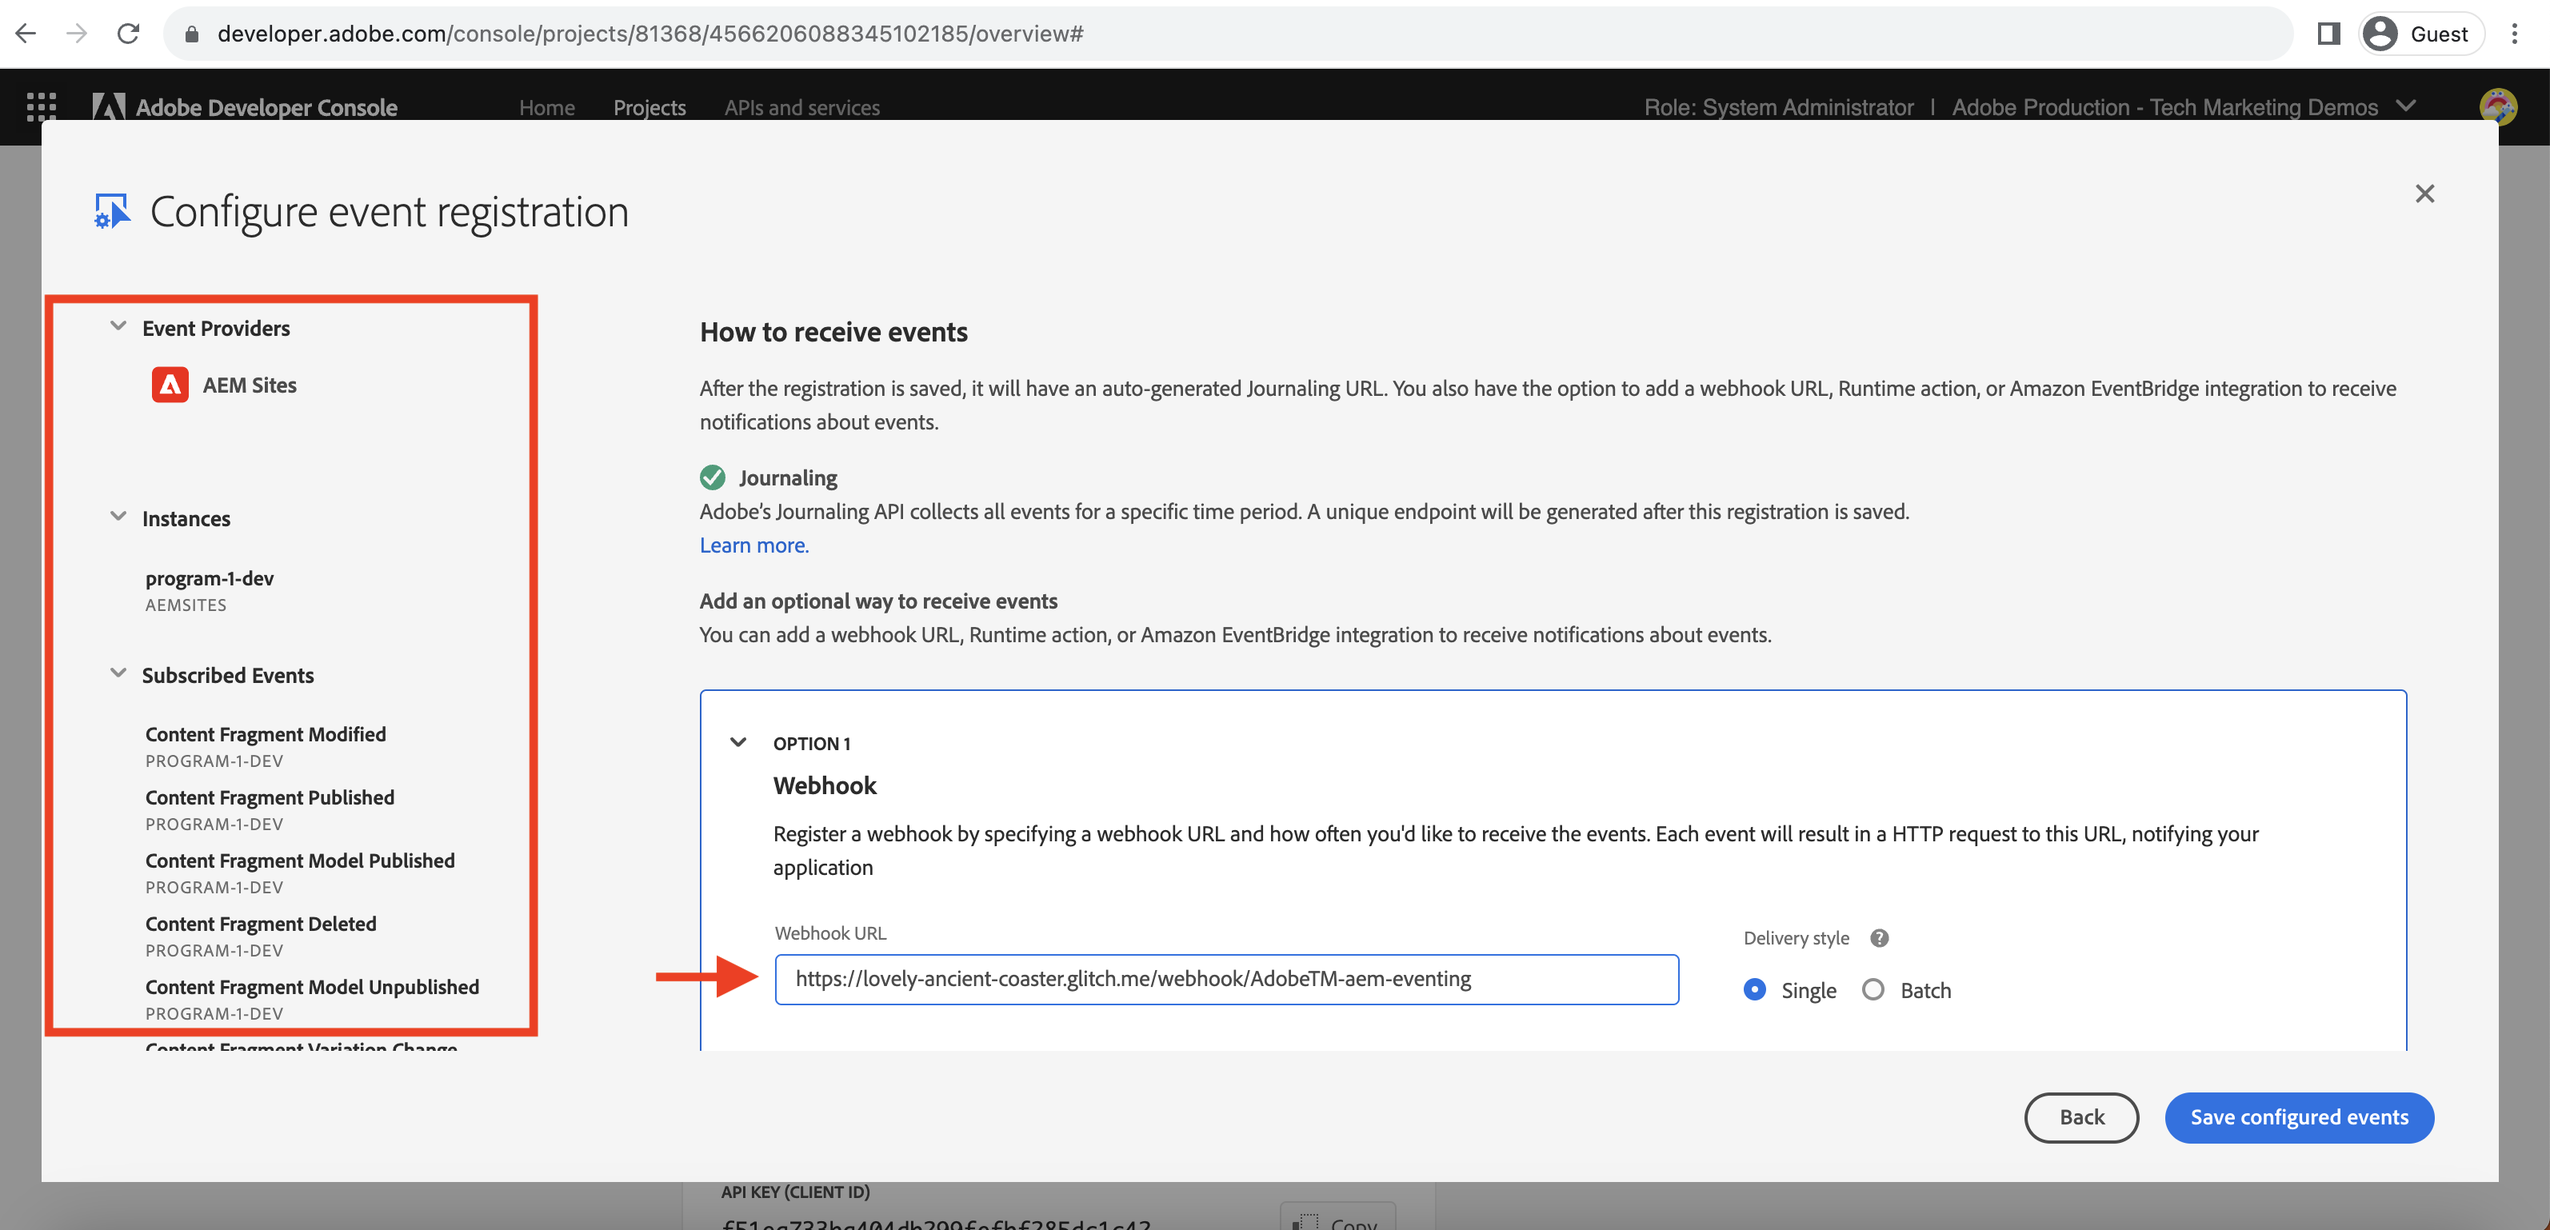
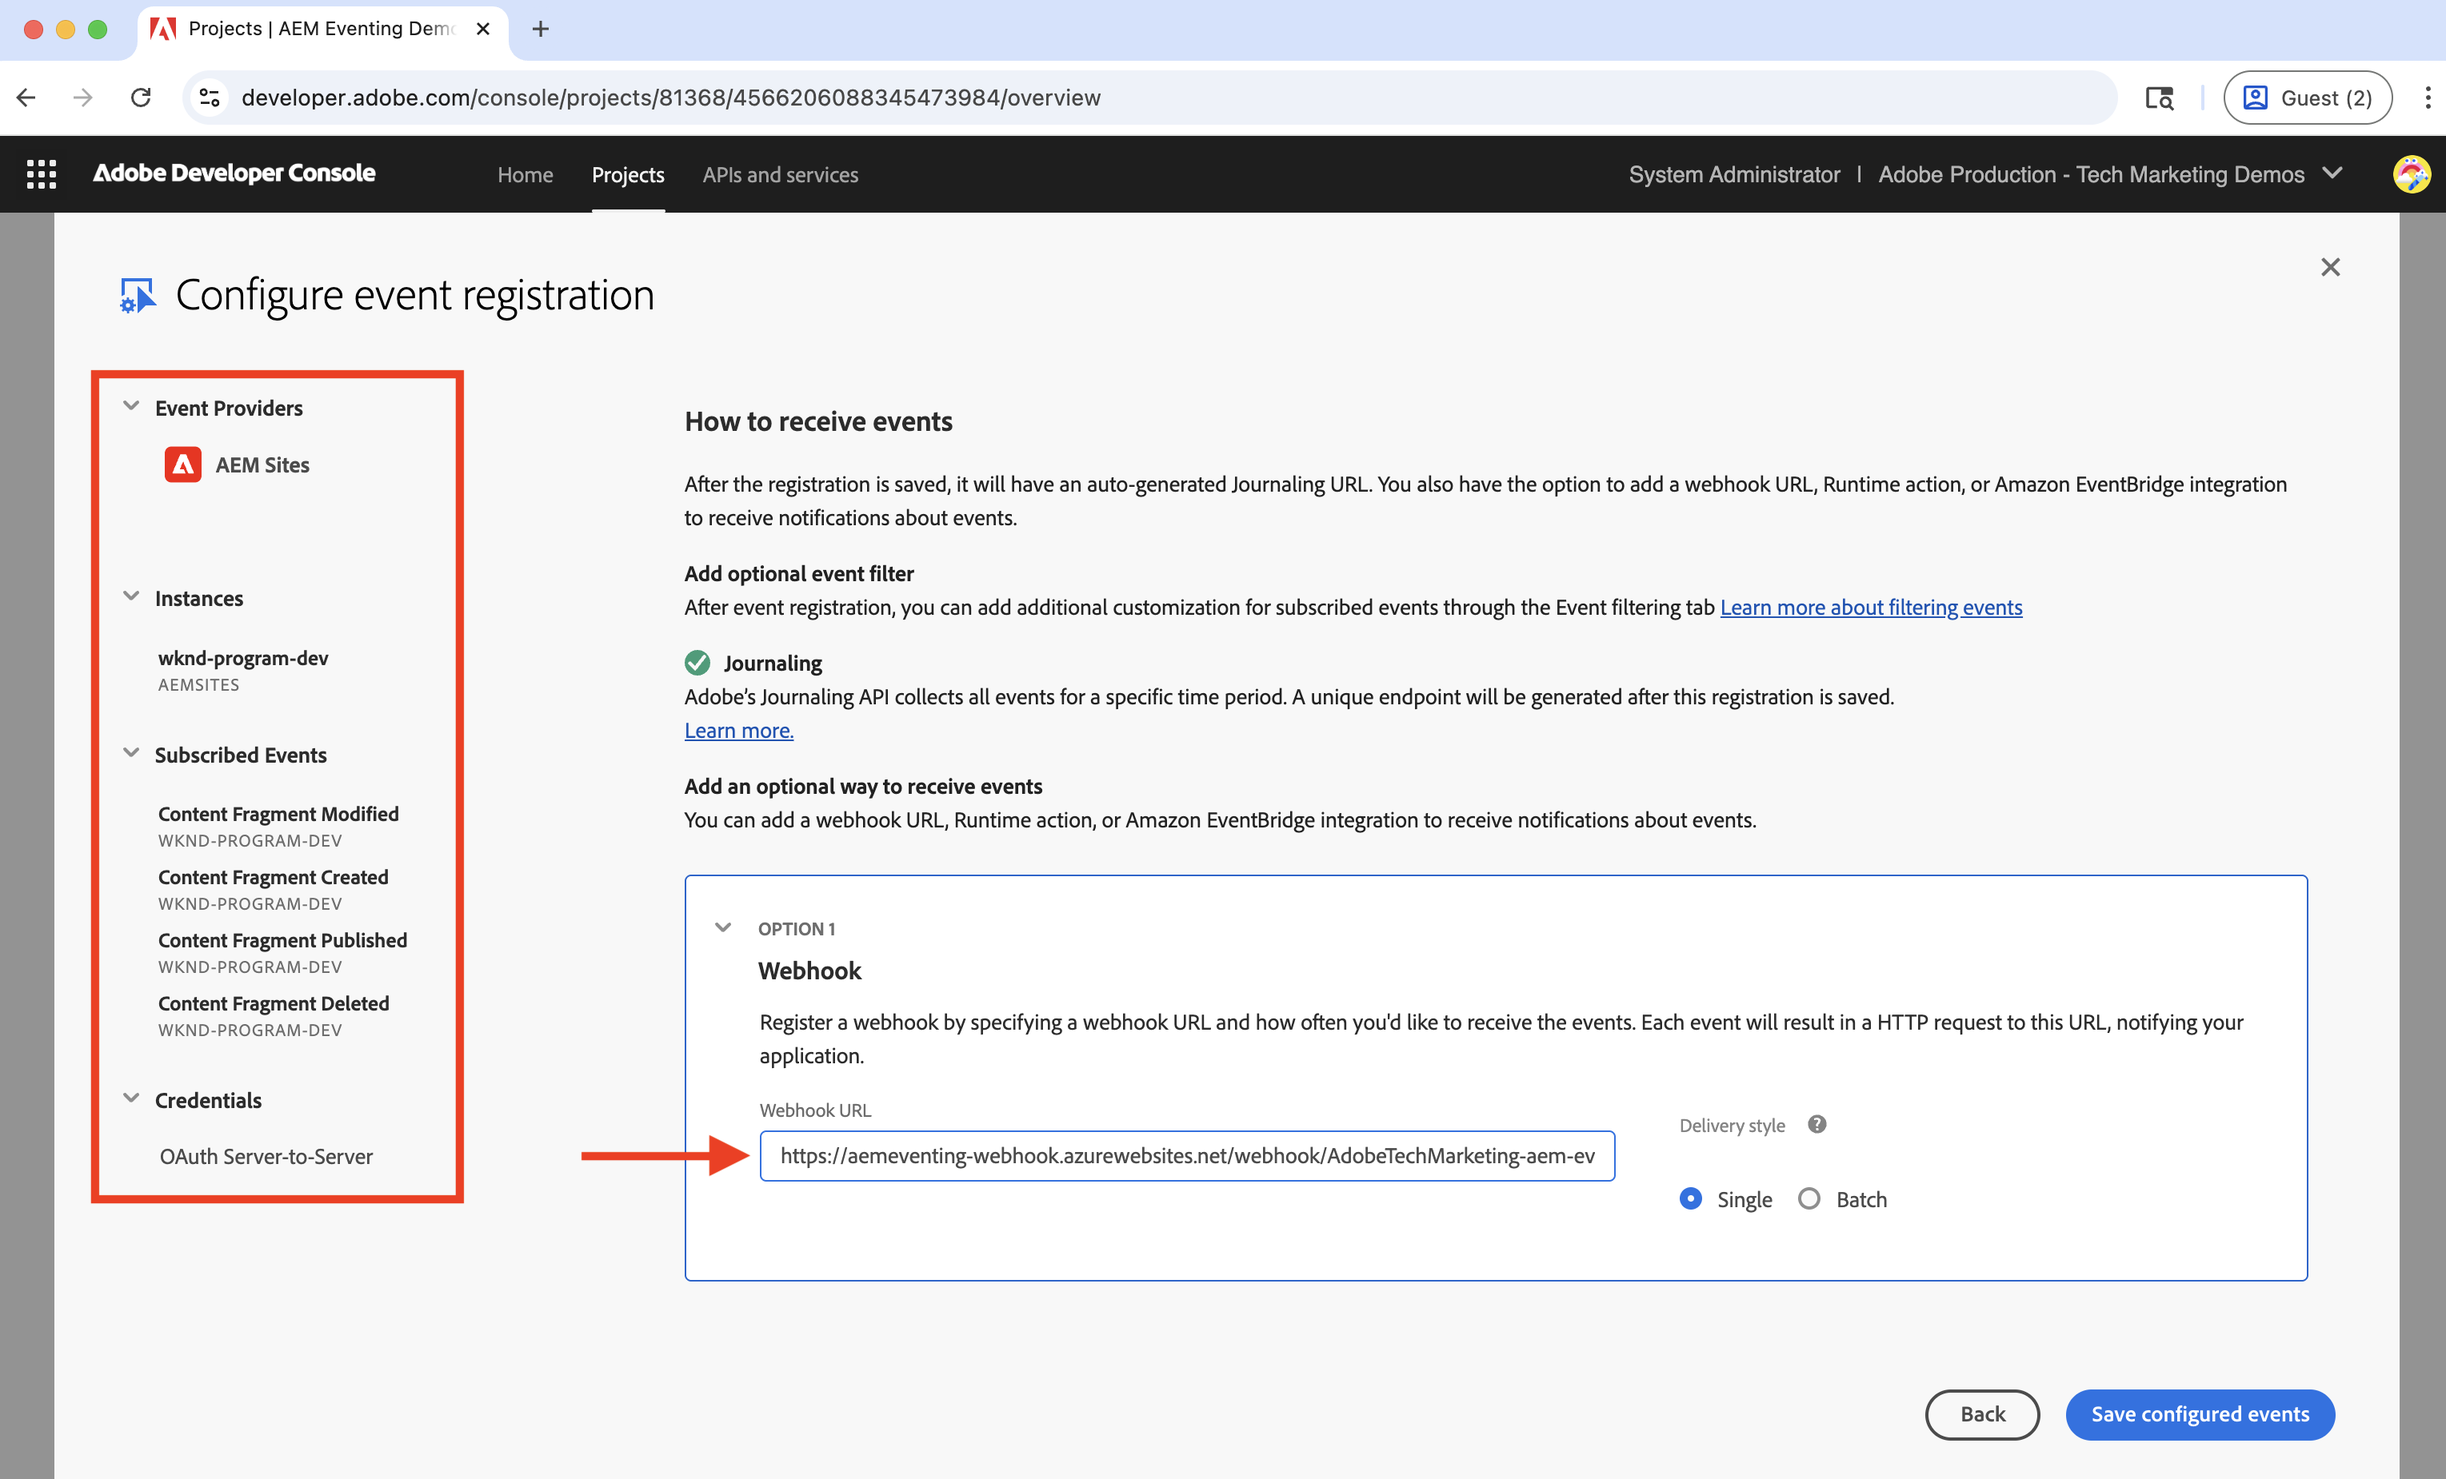
Migration from Glitch to Azure App… (#1689)
* Update webhook tutorial to reflect migration from Glitch to Azure App Service and replace outdated images

diff --git a/help/cloud-service/eventing/examples/webhook.md b/help/cloud-service/eventing/examples/webhook.md
@@ -23,11 +23,12 @@ Learn how to receive AEM events on a webhook and review the event details such a
 
 >[!IMPORTANT]
 >
->The live demo endpoints in this tutorial were previously hosted on [Glitch](https://glitch.com/). As of July 2025, Glitch has discontinued its hosting service, and the endpoints are no longer accessible.
->We are actively working on migrating the demos to an alternative platform. The tutorial content remains accurate, and updated links will be provided soon.
->Thank you for your understanding and patience.
+>The video references a Glitch-hosted webhook endpoint. Since Glitch has discontinued its hosting service, the webhook has been migrated to Azure App Service.
+>
+>The functionality remains the same — only the hosting platform has changed.
 
-Use your own webhook till the live demo endpoints are available again.
+
+Instead of using Adobe provided sample webhook, you can also use your own webhook endpoint to receive AEM Events. 
 
 ## Prerequisites
 
@@ -40,15 +41,15 @@ To complete this tutorial, you need:
 
 ## Access webhook
 
-To access the Adobe-provided webhook, follow these steps:
+To access the Adobe provided sample webhook, follow these steps:
 
-- Verify you can access the [Glitch - hosted webhook](https://lovely-ancient-coaster.glitch.me/) in a new browser tab.
+- Verify you can access the [Adobe provided sample webhook](https://aemeventing-webhook.azurewebsites.net/) in a new browser tab.
 
-    ![Glitch - hosted webhook](../assets/examples/webhook/glitch-hosted-webhook.png)
+    ![Adobe provided sample webhook](../assets/examples/webhook/adobe-provided-webhook.png)
 
 - Enter a unique name for your webhook, for example `<YOUR_PETS_NAME>-aem-eventing` and click **Connect**. You should see `Connected to: ${YOUR-WEBHOOK-URL}` message appearing on the screen.
 
-    ![Glitch - create webhook](../assets/examples/webhook/glitch-create-webhook.png)
+    ![Create your webhook endpoint](../assets/examples/webhook/create-webhook-endpoint.png)
 
 - Make a note of the **Webhook URL**. You need it later in this tutorial.
 
@@ -66,13 +67,13 @@ To receive AEM Events on the above webhook URL, follow these steps:
 
     ![Adobe Developer Console Project Configure](../assets/examples/webhook/adobe-developer-console-project-configure.png)
 
-- In the **How to receive events** step, select **Webhook** option and paste the **Webhook URL** you copied earlier from the Glitch hosted webhook and click **Save configured events**.
+- In the **How to receive events** step, select **Webhook** option and paste the **Webhook URL** you copied earlier from the Adobe provided sample webhook and click **Save configured events**.
 
     ![Adobe Developer Console Project Webhook](../assets/examples/webhook/adobe-developer-console-project-webhook.png)
 
-- In the Glitch webook page, you should see a GET request, it is a challenge request sent by the Adobe I/O Events to verify the webhook URL. 
+- In the Adobe provided sample webhook page, you should see a GET request, it is a challenge request sent by the Adobe I/O Events to verify the webhook URL. 
 
-    ![Glitch - challenge request](../assets/examples/webhook/glitch-challenge-request.png)
+    ![Webhook - challenge request](../assets/examples/webhook/webhook-challenge-request.png)
 
 
 ## Trigger AEM events
@@ -85,9 +86,9 @@ To trigger AEM events from your AEM as a Cloud Service environment that has been
 
 ## Review event details
 
-After completing the above steps, you should see the AEM Events being delivered to the webhook. Look for the POST request in the Glitch webhook page. 
+After completing the above steps, you should see the AEM Events being delivered to the webhook. Look for the POST request in the Adobe provided sample webhook page. 
 
-![Glitch - POST request](../assets/examples/webhook/glitch-post-request.png)
+![Webhook - POST request](../assets/examples/webhook/webhook-post-request.png)
 
 Here are key details of the POST request:
 
@@ -97,25 +98,34 @@ Here are key details of the POST request:
 
 ```json
 {
-"connection": "close",
-"x-forwarded-for": "34.205.178.127,::ffff:10.10.10.136,::ffff:10.10.84.114",
-"x-forwarded-proto": "https,http,http",
-"x-forwarded-port": "443,80,80",
-"host": "lovely-ancient-coaster.glitch.me",
-"content-length": "826",
-"x-adobe-public-key2-path": "/prod/keys/pub-key-IkpzhSpTw0.pem",
-"x-adobe-delivery-id": "18abfb47-d24a-4684-ade8-f442a3444033",
-"x-adobe-provider": "aemsites_7ABB3E6A5A7491460A495D61@AdobeOrg_acct-aem-p46652-e1074060@adobe.com",
-"x-adobe-public-key1-path": "/prod/keys/pub-key-Ptc2pD9vT9.pem",
-"x-adobe-event-id": "a0f3fb7d-b02c-4612-aac6-e472b80af793",
-"x-adobe-event-code": "aem.sites.contentFragment.modified",
-"user-agent": "Adobe/1.0",
[2 lines of base64/hex data omitted]
-"accept-encoding": "deflate,compress,identity",
-"content-type": "application/cloudevents+json; charset=UTF-8",
-"x-forwarded-host": "lovely-ancient-coaster.glitch.me",
-"traceparent": "00-c27558588d994f169186ca6a3c6607d4-a7e7ee36625488d4-01"
+  "host": "aemeventing-webhook.azurewebsites.net",
+  "user-agent": "Adobe/1.0",
+  "accept-encoding": "deflate,compress,identity",
+  "max-forwards": "10",
+  "x-adobe-public-key2-path": "/prod/keys/pub-key-kruhWwu4Or.pem",
+  "x-adobe-delivery-id": "25c36f70-9238-4e4c-b1d8-4d9a592fed9d",
+  "x-adobe-provider": "aemsites_7ABB3E6A5A7491460A495D61@AdobeOrg_acct-aem-p63947-e1249010@adobe.com",
+  "x-adobe-public-key1-path": "/prod/keys/pub-key-lyTiz3gQe4.pem",
+  "x-adobe-event-id": "b555a1b1-935b-4541-b410-1915775338b5",
+  "x-adobe-event-code": "aem.sites.contentFragment.modified",
[2 lines of base64/hex data omitted]
+  "x-arr-log-id": "881073f0-7185-4812-9f17-4db69faf2b68",
+  "client-ip": "52.37.214.82:46066",
+  "disguised-host": "aemeventing-webhook.azurewebsites.net",
+  "x-site-deployment-id": "aemeventing-webhook",
+  "was-default-hostname": "aemeventing-webhook.azurewebsites.net",
+  "x-forwarded-proto": "https",
+  "x-appservice-proto": "https",
+  "x-arr-ssl": "2048|256|CN=Microsoft Azure RSA TLS Issuing CA 03, O=Microsoft Corporation, C=US|CN=*.azurewebsites.net, O=Microsoft Corporation, L=Redmond, S=WA, C=US",
+  "x-forwarded-tlsversion": "1.3",
+  "x-forwarded-for": "52.37.214.82:46066",
+  "x-original-url": "/webhook/AdobeTechMarketing-aem-eventing",
+  "x-waws-unencoded-url": "/webhook/AdobeTechMarketing-aem-eventing",
+  "x-client-ip": "52.37.214.82",
+  "x-client-port": "46066",
+  "content-type": "application/cloudevents+json; charset=UTF-8",
+  "content-length": "1178"
 }
 ```
 
@@ -124,32 +134,41 @@ Here are key details of the POST request:
 ```json
 {
   "specversion": "1.0",
+  "id": "83b0eac0-56d6-4499-afa6-4dc58ff6ac7f",
+  "source": "acct:aem-p63947-e1249010@adobe.com",
   "type": "aem.sites.contentFragment.modified",
-  "source": "acct:aem-p46652-e1074060@adobe.com",
-  "id": "bf922a49-9db4-4377-baf4-70e96e15c45f",
-  "time": "2023-12-12T20:36:43.583228Z",
-  "dataschema": "https://ns.adobe.com/xdm/aem/sites/events/content-fragment-modified.json",
   "datacontenttype": "application/json",
+  "dataschema": "https://ns.adobe.com/xdm/aem/sites/events/content-fragment-modified.json",
+  "time": "2025-07-24T13:53:23.994109827Z",
+  "eventid": "b555a1b1-935b-4541-b410-1915775338b5",
+  "event_id": "b555a1b1-935b-4541-b410-1915775338b5",
+  "recipient_client_id": "606d4074c7ea4962aaf3bc2a5ac3b7f9",
+  "recipientclientid": "606d4074c7ea4962aaf3bc2a5ac3b7f9",
   "data": {
     "user": {
-      "imsUserId": "933E1F8A631CAA0F0A495E53@80761f6e631c0c7d495fb3.e",
-      "principalId": "xxx@adobe.com",
-      "displayName": "First LastName",
+      "imsUserId": "ims-933E1F8A631CAA0F0A495E53@80761f6e631c0c7d495fb3.e",
+      "principalId": "xx@adobe.com",
+      "displayName": "Sachin Mali"
     },
     "path": "/content/dam/wknd-shared/en/adventures/beervana-portland/beervana-in-portland",
+    "sourceUrl": "https://author-p63947-e1249010.adobeaemcloud.com",
     "model": {
-      "id": "/conf/wknd-shared/settings/dam/cfm/models/adventure"
[1 lines of base64/hex data omitted]
+      "path": "/conf/wknd-shared/settings/dam/cfm/models/adventure"
     },
-    "id": "9a2d3e6a-efda-4079-a86e-0ef2ede692da",
+    "id": "9e1e9835-64c8-42dc-9d36-fbd59e28f753",
+    "tags": [
+      "wknd-shared:region/nam/united-states",
+      "wknd-shared:activity/social",
+      "wknd-shared:season/fall"
+    ],
     "properties": [
       {
-        "name": "groupSize",
+        "name": "price",
         "changeType": "modified"
       }
     ]
-  },
-  "event_id": "a0f3fb7d-b02c-4612-aac6-e472b80af793",
-  "recipient_client_id": "f51ea733ba404db299fefbf285dc1c42"
+  }
 }
 ```
 
